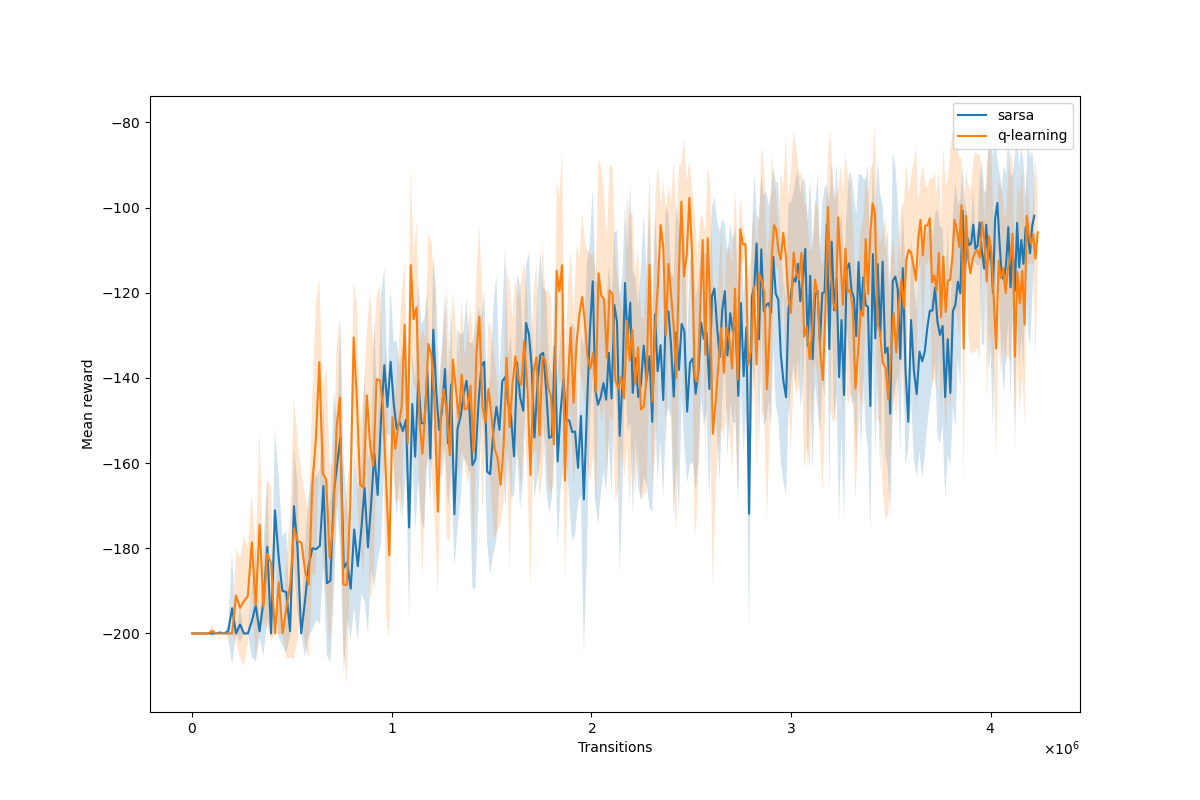
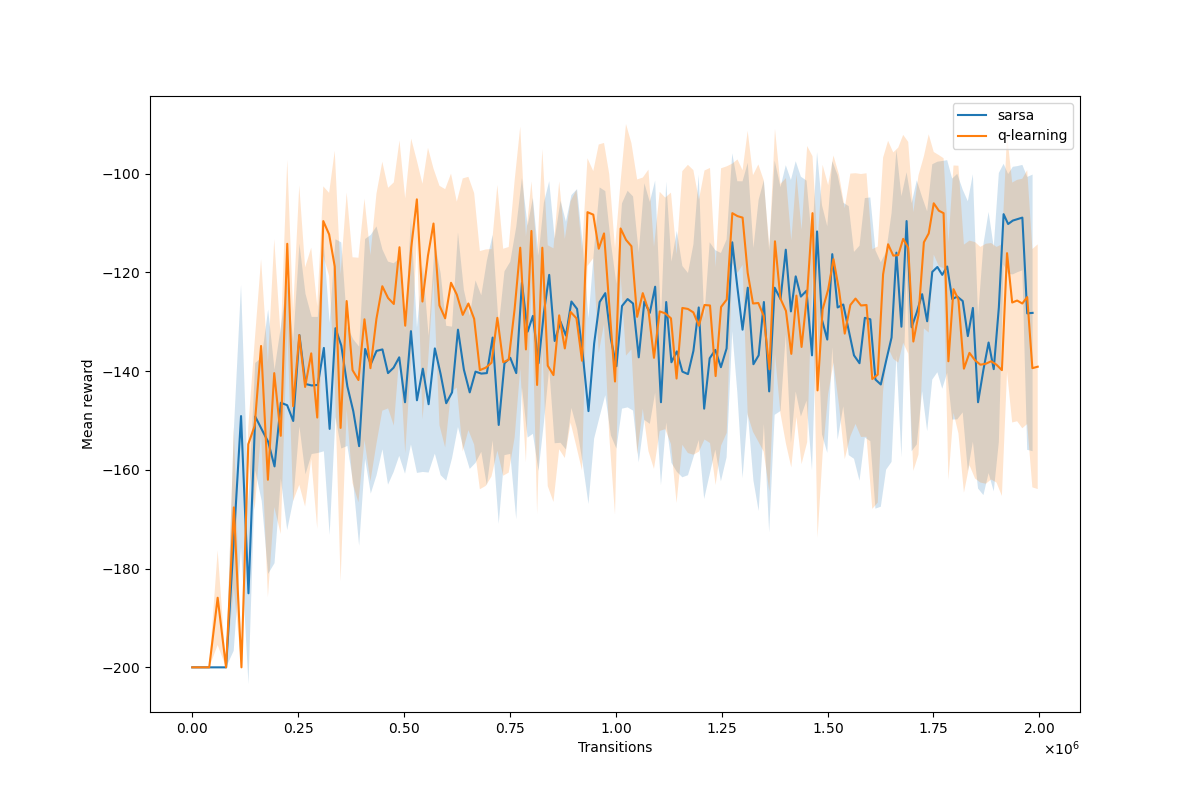
hw1 more

diff --git a/hw01_mountain_car/train.py b/hw01_mountain_car/train.py
@@ -10,10 +10,13 @@ try:
 except ModuleNotFoundError:
     from .utils import plot_learning_curve
 
-GAMMA = 0.98
+GAMMA = 0.7 # default 0.98
 GRID_SIZE_X = 30 # default 30
 GRID_SIZE_Y = 30 # default 30
 EPS = 0.1
+SEED = 42
+
+# TODO: how to set end seed properly??????????
 
 # Num    Observation               Min            Max
 # 0      Car Position              -1.2           0.6
@@ -75,12 +78,17 @@ class SARSA:
         np.savez(os.path.join(path, "sarsa_agent.npz"), self.Q_table)
 
 
-def evaluate_policy(agent, episodes=5):
+def evaluate_policy(agent, episodes=5, seed=None):
     env = gym.make("MountainCar-v0")
     
+    if seed is not None:
+        env.seed(seed)
+        env.action_space.seed(SEED)
+
     returns = []
     for _ in range(episodes):
         done = False
+    
         state = env.reset()
         total_reward = 0.0
         
@@ -94,21 +102,23 @@ def evaluate_policy(agent, episodes=5):
 
 
 def train_sarsa():
-    epochs = 30_000
+    epochs = 15_000
     
     env = gym.make("MountainCar-v0")
-    sarsa = SARSA(GRID_SIZE_X * GRID_SIZE_Y, 3, 0.1, EPS)
+    sarsa = SARSA(GRID_SIZE_X * GRID_SIZE_Y, 3, 0.2, EPS)
     
     reduction = EPS / epochs
     
-    env.seed(42)
-    random.seed(42)
-    np.random.seed(42)
+    random.seed(SEED)
+    np.random.seed(SEED)
+    
+    env.seed(SEED)
+    env.action_space.seed(SEED)
     
     log = [[], [], []]
     
     total_transitions = 0
-    for epoch in range(epochs):
+    for epoch in range(epochs):        
         done, old_state = False, env.reset()
         
         trajectory = []
@@ -119,7 +129,8 @@ def train_sarsa():
             
             next_state, reward, done, _ = env.step(action)
             
-            shaped_reward = reward + 300 * (GAMMA * abs(next_state[1]) - abs(old_state[1]))
+            # shaped_reward = reward + 300 * (GAMMA * abs(next_state[1]) - abs(old_state[1]))
+            shaped_reward = reward + abs(next_state[1]) / 0.07
             
             trajectory.append((state, action, transform_state(next_state), shaped_reward, done and next_state[0] > 0.5))
             
@@ -131,7 +142,7 @@ def train_sarsa():
             sarsa.update(transition)
                 
         if epoch % 100 == 0:
-            rewards = evaluate_policy(sarsa, 10)
+            rewards = evaluate_policy(sarsa, 10, seed=SEED)
             
             print(f"Epoch {epoch} -- Total transitions {total_transitions} -- Reward {np.mean(rewards)} +- {np.std(rewards)}") 
             
@@ -148,21 +159,23 @@ def train_sarsa():
     
 
 def train_q():
-    epochs = 30_000
+    epochs = 15_000
     eps = EPS
     reduction = eps / epochs
     
     env = gym.make("MountainCar-v0")
-    Q = QLearning(GRID_SIZE_X * GRID_SIZE_Y, 3, 0.1)
+    Q = QLearning(GRID_SIZE_X * GRID_SIZE_Y, 3, 0.2)
     
-    env.seed(42)
-    random.seed(42)
-    np.random.seed(42)
+    random.seed(SEED)
+    np.random.seed(SEED)
+    
+    env.seed(SEED)
+    env.action_space.seed(SEED)
     
     log = [[], [], []]
     
     total_transitions = 0
-    for epoch in range(epochs):
+    for epoch in range(epochs):        
         done, old_state = False, env.reset()
         
         trajectory = []
@@ -176,7 +189,8 @@ def train_q():
             
             next_state, reward, done, _ = env.step(action)
             
-            shaped_reward = reward + 300 * (GAMMA * abs(next_state[1]) - abs(old_state[1]))
+            # shaped_reward = reward + 300 * (GAMMA * abs(next_state[1]) - abs(old_state[1]))
+            shaped_reward = reward + abs(next_state[1]) / 0.07
             
             trajectory.append((state, action, transform_state(next_state), shaped_reward, done and next_state[0] > 0.5))
             
@@ -188,7 +202,7 @@ def train_q():
             Q.update(transition)
                 
         if epoch % 100 == 0:
-            rewards = evaluate_policy(Q, 10)
+            rewards = evaluate_policy(Q, 10, seed=SEED)
             
             print(f"Epoch {epoch} -- Total transitions {total_transitions} -- Reward {np.mean(rewards)} +- {np.std(rewards)} -- Eps {eps}") 
             

diff --git a/hw01_mountain_car/README.md b/hw01_mountain_car/README.md
@@ -11,3 +11,7 @@
 
 ### Оценка:
 От 1 до 10, баллы начисляются за полученные агентом очки в среднем за 20 эпизодов. Максимальный балл соответствует `-120` очкам и выше, минимальный - `-200`
+
+# Results
+
+![q_vs_sarsa](plots/q-learning.png)
